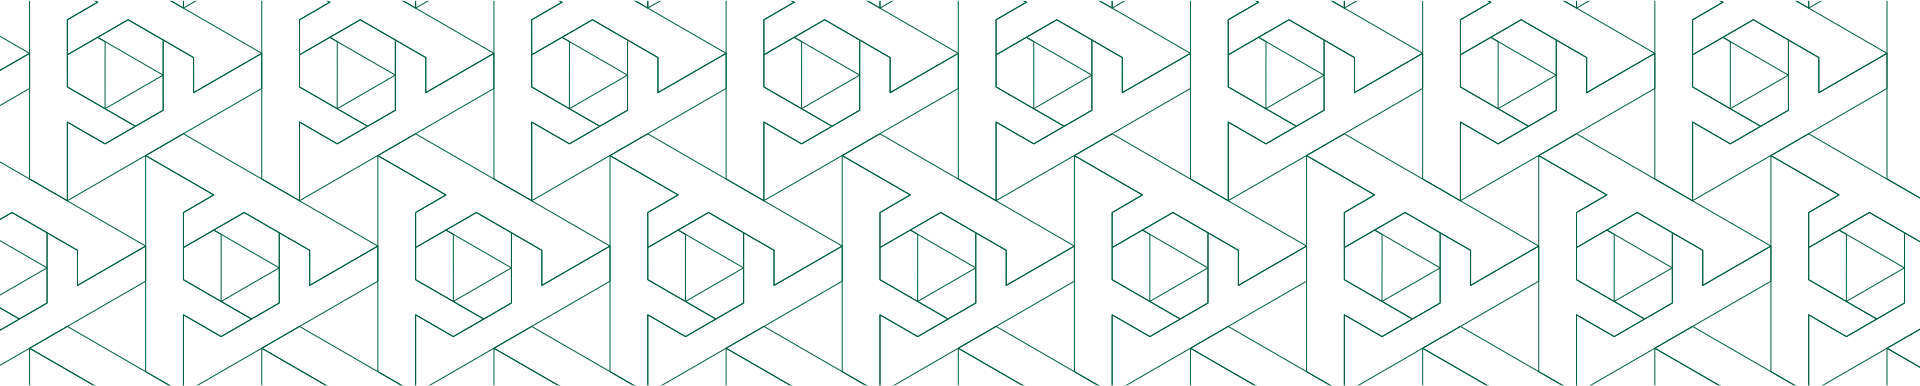
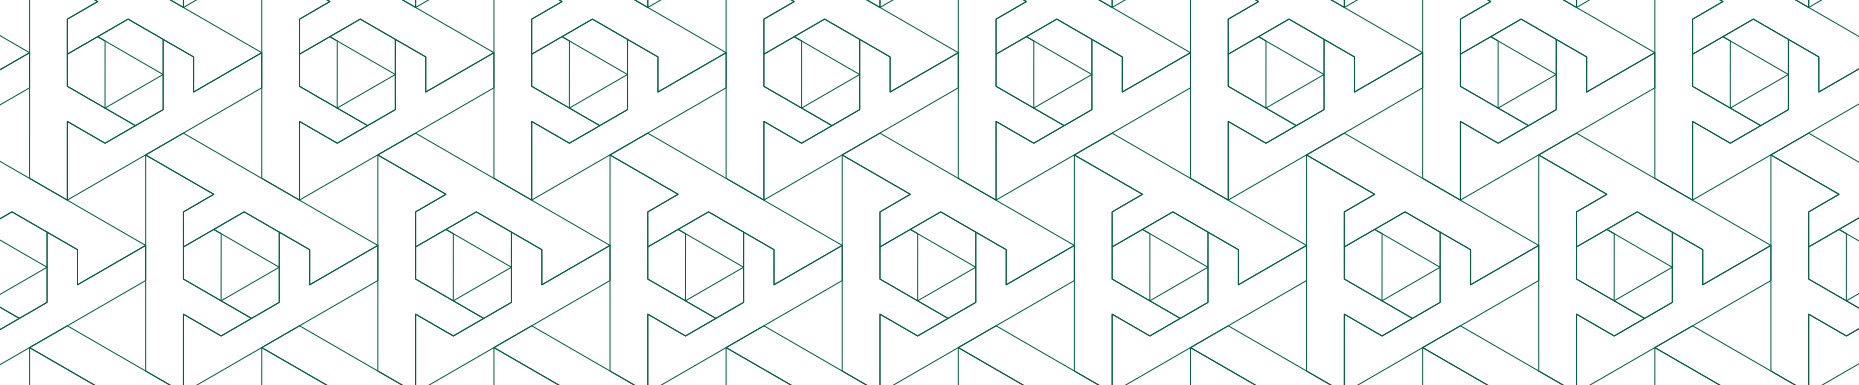
fixed pattern tiling + ordered SA partner categories

diff --git a/pages/sa/partners/index.jsx b/pages/sa/partners/index.jsx
@@ -57,9 +57,20 @@ function Partners({ seomatic, contentBlocks, partnerData, partnerData2025 }) {
 	partnerData2025.exhibitors.forEach( obj => {
 		if ( obj.fields ) allCategoriesArray.push({id: obj.fields[0].id, name: obj.fields[0].translations[0].value, size: ''})
 	})
-	// console.log('types:', _.uniqBy(allCategoriesArray, obj => obj.id))
 	const categoriesArray = _.uniqBy(allCategoriesArray, obj => obj.id)
+	// console.log('categories:', categoriesArray)
 
+	const orderedCategories = []
+	categoriesArray.forEach( category => {
+		// console.log('cat:', category)
+		if (category.id === 'RmllbGRWYWx1ZV8yMzk2Njg1Nw==') orderedCategories.push({ ...category, priority: 1 })
+		if (category.id === 'RmllbGRWYWx1ZV8yMzk2Njg2MA==') orderedCategories.push({ ...category, priority: 2 })
+		if (category.id === 'RmllbGRWYWx1ZV8yMzk2Njg1OA==') orderedCategories.push({ ...category, priority: 3 })
+		if (category.id === 'RmllbGRWYWx1ZV8yNDQ3NDE0MA==') orderedCategories.push({ ...category, priority: 4 })
+		if (category.id === 'RmllbGRWYWx1ZV8yMzk3OTkyMw==') orderedCategories.push({ ...category, priority: 5 })
+		if (category.id === 'RmllbGRWYWx1ZV8yMzk3OTkyNQ==') orderedCategories.push({ ...category, priority: 6 })
+	})
+	// console.log('orderedCategories:', orderedCategories)
 
 
 
@@ -82,7 +93,7 @@ function Partners({ seomatic, contentBlocks, partnerData, partnerData2025 }) {
 
 			{/* 2025 partners */}
 
-			{/* <section className='block bg-default'>
+			<section className='block bg-default'>
 
 				<div className='container center formatted'>
 					<p className='fs-1 fw-600'>2024 Sponsors &amp; Partners</p>
@@ -92,11 +103,11 @@ function Partners({ seomatic, contentBlocks, partnerData, partnerData2025 }) {
 				<PartnerCategoryGrid>
 					{
 						partnerData2025 &&
-						categoriesArray.map( category => {
+						_.orderBy(orderedCategories, 'priority').map( category => {
 							const group = partnerData2025.exhibitors.filter( partner => {
 								if (partner.fields[0].id === category.id ) return partner
 							})
-							console.log('group:', group)
+							// console.log('group:', group)
 
 							return (
 								<PartnerCategory key={category.id}>
@@ -123,7 +134,7 @@ function Partners({ seomatic, contentBlocks, partnerData, partnerData2025 }) {
 					}
 				</PartnerCategoryGrid>
 				
-			</section> */}
+			</section>
 
 
 			<QuoteGrid>
